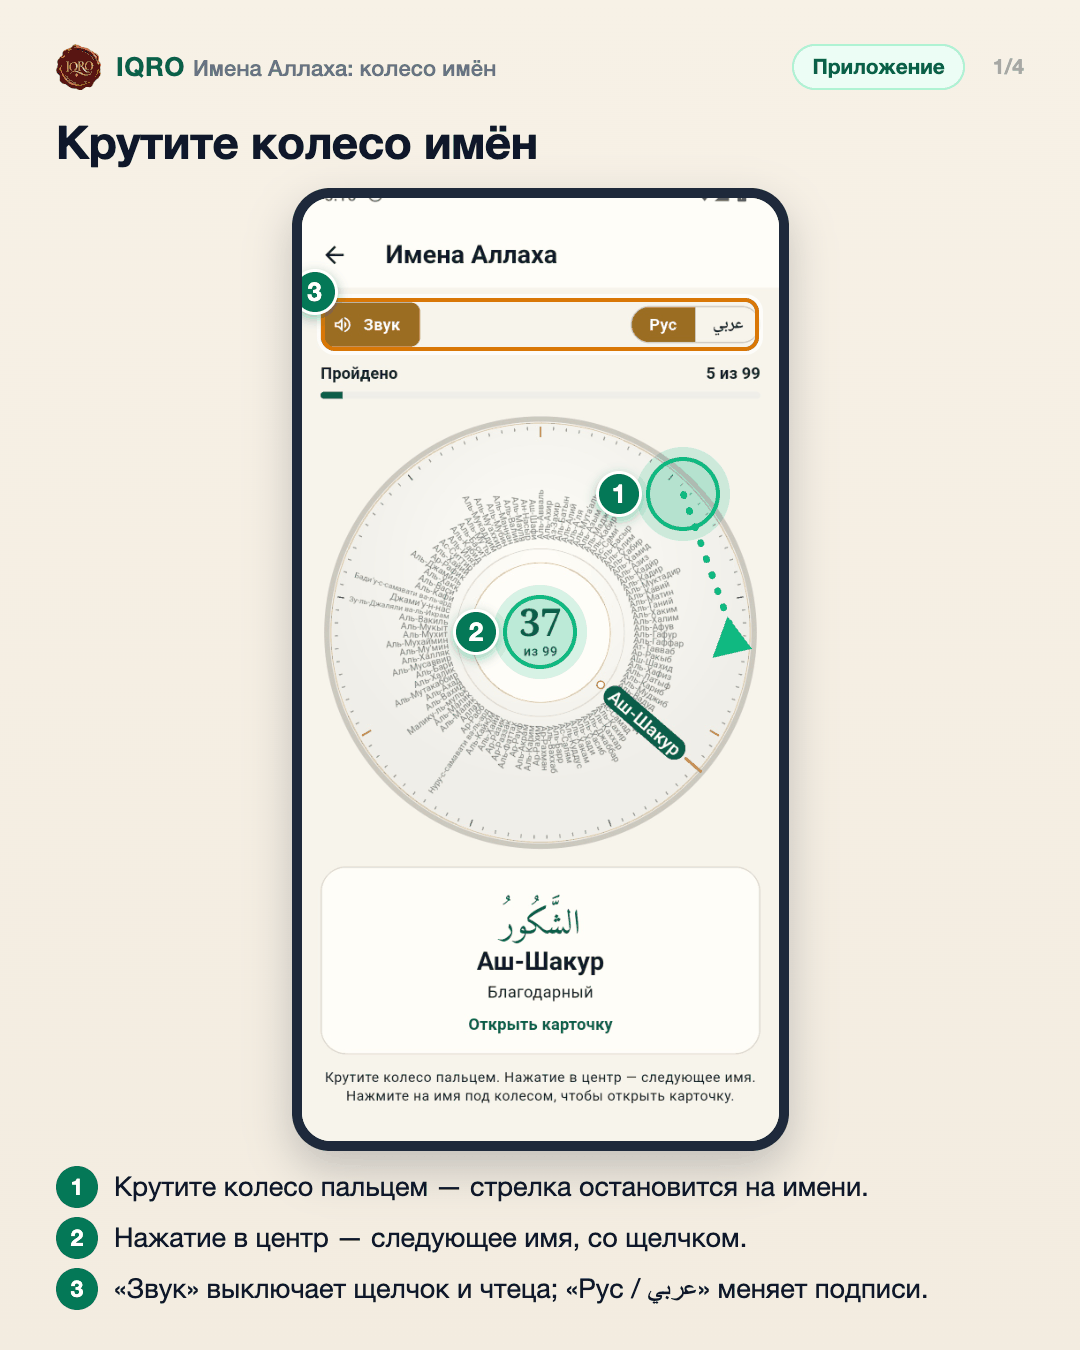
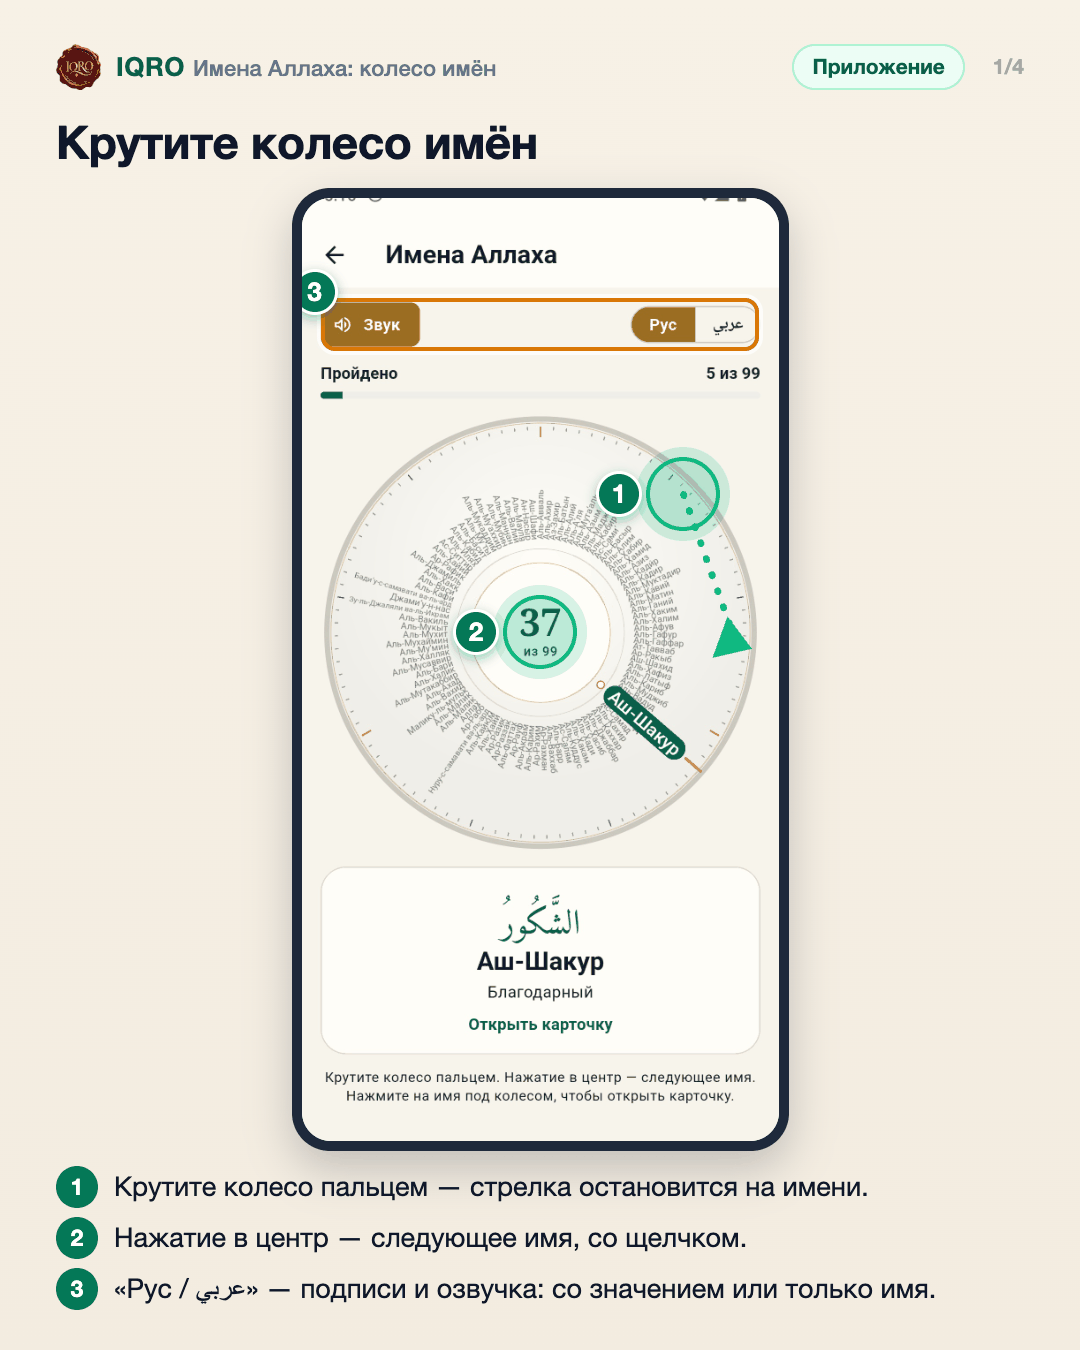
The wheel says a name with its meaning, and its tap can be felt
The labels' switch now picks the voice too: the name with its meaning in the
interface language, or the name alone with Arabic labels; a new name cuts the
previous recording short. On Android the tap is a 45 ms pulse (80 ms on the
tasbih marks): the 22 ms one reached the motor but could not be felt.

Changed region(s): [[0.1222, 0.9333, 0.8556, 0.9644]]

diff --git a/clients/iqro_mobile/android/app/src/main/kotlin/forum/iqro/app/MainActivity.kt b/clients/iqro_mobile/android/app/src/main/kotlin/forum/iqro/app/MainActivity.kt
@@ -21,6 +21,7 @@ import io.flutter.plugin.common.MethodChannel
 
 class MainActivity : AudioServiceActivity() {
     private var lastPagePulse = 0L
+    private var nextPulseAt = 0L
     private var qiblaCompass: QiblaCompassStreamHandler? = null
     private var appUpdates: AppUpdateHandler? = null
 
@@ -49,14 +50,14 @@ class MainActivity : AudioServiceActivity() {
         refreshNotificationIcons()
         MethodChannel(flutterEngine.dartExecutor.binaryMessenger, "forum.iqro.app/reader_haptics")
             .setMethodCallHandler { call, result ->
-                if (call.method != "pageTick") {
-                    result.notImplemented()
-                } else {
-                    try {
-                        result.success(pageTick())
-                    } catch (_: SecurityException) {
-                        result.success("unavailable")
+                try {
+                    when (call.method) {
+                        "pageTick" -> result.success(pageTick())
+                        "pulse" -> result.success(pulse(call.argument<Int>("ms") ?: 45))
+                        else -> result.notImplemented()
                     }
+                } catch (_: SecurityException) {
+                    result.success("unavailable")
                 }
             }
         MethodChannel(flutterEngine.dartExecutor.binaryMessenger, "forum.iqro.app/notification_settings")
@@ -140,6 +141,38 @@ class MainActivity : AudioServiceActivity() {
                 // Notification permission may have been revoked in Settings.
             }
         }
+    }
+
+    /**
+     * A pulse long enough to feel on a phone with a plain rotating motor: the
+     * 22 ms of [pageTick] end before such a motor has spun up. Without amplitude
+     * control the length is the only strength there is. Honours the phone's
+     * touch-vibration switch like any touch feedback.
+     */
+    @Suppress("DEPRECATION")
+    private fun pulse(requestedMs: Int): String {
+        if (Settings.System.getInt(contentResolver, Settings.System.HAPTIC_FEEDBACK_ENABLED, 1) == 0) {
+            return "disabled"
+        }
+        val motor = getSystemService(Context.VIBRATOR_SERVICE) as? Vibrator
+            ?: return "unavailable"
+        if (!motor.hasVibrator()) return "unavailable"
+        val ms = requestedMs.coerceIn(10, 150).toLong()
+        val now = SystemClock.uptimeMillis()
+        // Pulses must not run into one buzz while a wheel spins fast.
+        if (now < nextPulseAt) return "throttled"
+        nextPulseAt = now + ms + 45
+        val attributes = AudioAttributes.Builder()
+            .setUsage(AudioAttributes.USAGE_ASSISTANCE_SONIFICATION)
+            .setContentType(AudioAttributes.CONTENT_TYPE_SONIFICATION)
+            .build()
+        if (Build.VERSION.SDK_INT >= Build.VERSION_CODES.O) {
+            val amplitude = if (motor.hasAmplitudeControl()) 255 else VibrationEffect.DEFAULT_AMPLITUDE
+            motor.vibrate(VibrationEffect.createOneShot(ms, amplitude), attributes)
+        } else {
+            motor.vibrate(ms, attributes)
+        }
+        return "played"
     }
 
     @Suppress("DEPRECATION")

diff --git a/clients/iqro_mobile/test/features/names_screen_test.dart b/clients/iqro_mobile/test/features/names_screen_test.dart
@@ -32,8 +32,9 @@ void main() {
       expect(_readout('Ар-Рахим'), findsOneWidget);
       expect(find.byKey(const ValueKey('names-card')), findsNothing);
       expect(harness.click.count, 1);
-      // The needle stopped on the name: it is seen, and the reciter says it.
-      expect(harness.voice.played, <String>['ar-rahim@ar']);
+      // The needle stopped on the name: it is seen and said, with its meaning
+      // in the interface language.
+      expect(harness.voice.played, <String>['ar-rahim@ru']);
       expect(_seen(tester), '1 из 4');
       expect(harness.store.progress.lessons['ar-rahim']!.completed, isFalse);
 
@@ -71,7 +72,7 @@ void main() {
     await tester.pumpAndSettle();
 
     expect(_readout('Ар-Рахим'), findsOneWidget);
-    expect(harness.voice.played, <String>['ar-rahim@ar']);
+    expect(harness.voice.played, <String>['ar-rahim@ru']);
     expect(tester.takeException(), isNull);
   });
 
@@ -170,7 +171,7 @@ void main() {
   testWidgets('labels switch to Arabic; the Arabic interface has one script', (
     tester,
   ) async {
-    await _pump(tester);
+    final harness = await _pump(tester);
     expect(find.byKey(const ValueKey('names-labels')), findsOneWidget);
     await tester.tap(find.text('عربي'));
     await tester.pumpAndSettle();
@@ -179,14 +180,23 @@ void main() {
     await tester.tapAt(tester.getCenter(_dial));
     await tester.pumpAndSettle();
     expect(_readout('Ар-Рахим'), findsOneWidget);
+    // The switch picks the voice too: with Arabic labels the name alone.
+    expect(harness.voice.played, <String>['ar-rahim@ar']);
     expect(tester.takeException(), isNull);
 
     final json = namesFixture();
     for (final name in json['names']! as List) {
       (name as Map)['transliteration'] = '';
     }
-    await _pump(tester, locale: 'ar', document: NamesDocument.fromJson(json));
+    final arabic = await _pump(
+      tester,
+      locale: 'ar',
+      document: NamesDocument.fromJson(json),
+    );
     expect(find.byKey(const ValueKey('names-labels')), findsNothing);
+    await tester.tapAt(tester.getCenter(_dial));
+    await tester.pumpAndSettle();
+    expect(arabic.voice.played, <String>['ar-rahim@ar']);
     expect(find.text('Ар-Рахман'), findsNothing);
     expect(tester.takeException(), isNull);
   });

diff --git a/services/web/components/names/NamesWheel.tsx b/services/web/components/names/NamesWheel.tsx
@@ -17,6 +17,7 @@ import {
   writeNamesProgress,
   type NamesDocument,
 } from "@/lib/names";
+import { NAME_ONLY } from "@/lib/names-audio";
 import { useAccountProgressSync } from "@/lib/use-account-progress-sync";
 import { useCourseProgress } from "@/lib/use-course-progress";
 import { useReducedMotion } from "@/lib/use-reduced-motion";
@@ -84,9 +85,9 @@ export function NamesWheel({ document: list }: { document: NamesDocument }) {
     lastTick: 0,
     audio: null as AudioContext | null,
   });
-  const live = useRef({ arabicLabels, soundOn, reducedMotion, names, version: list.collection.version, voice });
+  const live = useRef({ arabicLabels, soundOn, reducedMotion, names, version: list.collection.version, voice, locale });
   useEffect(() => {
-    live.current = { arabicLabels, soundOn, reducedMotion, names, version: list.collection.version, voice };
+    live.current = { arabicLabels, soundOn, reducedMotion, names, version: list.collection.version, voice, locale };
   });
 
   // Drawing -----------------------------------------------------------------
@@ -303,7 +304,9 @@ export function NamesWheel({ document: list }: { document: NamesDocument }) {
     const before = readNamesProgress();
     const after = markNameSeen(before, name.slug, version);
     if (after !== before) writeNamesProgress(after);
-    if (sound) void reciter.play(name);
+    // The labels' switch also picks the voice: the name with its meaning in the site's language,
+    // or the name alone with Arabic labels.
+    if (sound) void reciter.play(name, live.current.arabicLabels ? NAME_ONLY : live.current.locale);
   }, []);
 
   // Motion ------------------------------------------------------------------

diff --git a/clients/iqro_mobile/lib/features/names/names_sound.dart b/clients/iqro_mobile/lib/features/names/names_sound.dart
@@ -70,12 +70,10 @@ class AssetNamesClick implements NamesClick {
   }
 }
 
-/// A light tap under the finger for every name that passes the needle: the
-/// same short pulse as a Mushaf page turn. On Android it goes straight to the
-/// motor, because the system's own tick is too weak to feel on some phones
-/// (MIUI); it still respects the phone's «touch vibration» setting.
-void namesHaptic() {
-  unawaited(ReaderHaptics.pageChanged(enabled: true));
+/// A tap under the finger for every name that passes the needle; [mark] is a
+/// name on a tasbih mark (every 11th), which is felt a little longer.
+void namesHaptic({bool mark = false}) {
+  unawaited(ReaderHaptics.pulse(strong: mark));
 }
 
 /// Plays one bundled recording of a name.
@@ -92,17 +90,25 @@ abstract interface class NamesClipPlayer {
 /// and must start at once.
 class AssetNamesClipPlayer implements NamesClipPlayer {
   AudioPlayer? _player;
+  var _request = 0;
 
   @override
   Future<void> play(String asset) async {
     final player = _player ??= AudioPlayer(handleAudioSessionActivation: false);
+    // A newer name takes over at any step: recordings never queue up.
+    final request = ++_request;
     await player.stop();
+    if (request != _request) return;
     await player.setAsset(asset);
+    if (request != _request) return;
     await player.play();
   }
 
   @override
-  Future<void> stop() async => _player?.stop();
+  Future<void> stop() async {
+    _request += 1;
+    await _player?.stop();
+  }
 
   @override
   Future<void> dispose() async => _player?.dispose();

diff --git a/clients/iqro_mobile/lib/features/names/names_screen.dart b/clients/iqro_mobile/lib/features/names/names_screen.dart
@@ -104,10 +104,19 @@ class _WheelState extends ConsumerState<_Wheel> {
         .sync(AccountProgressSync.names, _document.slug),
   );
 
+  /// The Arabic interface has one way to write and to say a name.
+  bool get _arabicLabels =>
+      _arabicChosen || Localizations.localeOf(context).languageCode == 'ar';
+
+  String get _voiceLanguage => _arabicLabels
+      ? NamesVoice.nameOnly
+      : Localizations.localeOf(context).languageCode;
+
   String get _album => 'IQRO · ${context.l10n.namesOfAllah}';
 
-  void _tick() {
-    namesHaptic();
+  void _tick(int index) {
+    // The tasbih marks, every 11 names, are felt a little longer.
+    namesHaptic(mark: index % 11 == 0);
     if (!_soundOn) return;
     // The players cannot restart faster than this; a fast spin skips clicks.
     final now = DateTime.now();
@@ -122,11 +131,12 @@ class _WheelState extends ConsumerState<_Wheel> {
     final name = _document.names[index];
     // The name is not said over the Quran that plays.
     if (_soundOn && !ref.read(audioControllerProvider).playing) {
-      // The wheel says the name alone; its meaning is on the card.
+      // The labels' switch also picks the voice: the name with its meaning
+      // in the interface language, or the name alone with Arabic labels.
       unawaited(
         ref
             .read(namesVoiceProvider)
-            .play(name, album: _album, language: NamesVoice.nameOnly),
+            .play(name, album: _album, language: _voiceLanguage),
       );
     }
     final CourseProgress progress;

diff --git a/clients/iqro_mobile/lib/core/platform/reader_haptics.dart b/clients/iqro_mobile/lib/core/platform/reader_haptics.dart
@@ -5,6 +5,37 @@ import 'package:flutter/services.dart';
 class ReaderHaptics {
   static const channel = MethodChannel('forum.iqro.app/reader_haptics');
 
+  /// A pulse that can be felt on a phone with a plain rotating motor, where
+  /// the system's own ticks and the 22 ms of [pageChanged] are too short:
+  /// [strong] is for a mark that stands out. On Android the length is sent to
+  /// the motor (the phone's touch-vibration switch still applies); elsewhere
+  /// the system's medium and heavy impacts are used.
+  static Future<void> pulse({bool strong = false}) async {
+    if (!kIsWeb && defaultTargetPlatform == TargetPlatform.android) {
+      try {
+        await channel.invokeMethod<String>('pulse', <String, Object?>{
+          'ms': strong ? strongPulseMs : pulseMs,
+        });
+        return;
+      } on MissingPluginException {
+        // Older native shells and test hosts have no custom channel.
+      } on PlatformException {
+        // A denied or unavailable motor must not interrupt the screen.
+      }
+    }
+    try {
+      await (strong
+          ? HapticFeedback.heavyImpact()
+          : HapticFeedback.mediumImpact());
+    } on PlatformException {
+      // Haptics are best effort.
+    }
+  }
+
+  /// The lengths of [pulse] on Android, in milliseconds.
+  static const pulseMs = 45;
+  static const strongPulseMs = 80;
+
   static Future<void> pageChanged({required bool enabled}) async {
     if (!enabled) return;
     if (!kIsWeb && defaultTargetPlatform == TargetPlatform.android) {

diff --git a/services/web/e2e/names.spec.ts b/services/web/e2e/names.spec.ts
@@ -28,8 +28,11 @@ test("the wheel turns by keys and by a tap on its centre; the name under it open
   await expect(page.getByTestId("names-seen")).toHaveText("0 из 4");
 
   await dial.focus();
+  // The needle stops on a name and it is said at once, with its meaning in the site's language.
+  const said = page.waitForRequest((request) => request.url().endsWith("/names-audio/ru/ar-rahim.mp3"));
   await page.keyboard.press("ArrowRight");
   await expect(readout).toContainText("Ар-Рахим");
+  await said;
   await expect(dial).toHaveAttribute("aria-valuenow", "2");
   await expect(page.getByTestId("names-seen")).toHaveText("1 из 4");
 
@@ -117,8 +120,11 @@ test("labels switch between the interface language and Arabic; the Arabic site h
   await expect(page.getByTestId("names-labels-locale")).toHaveAttribute("aria-pressed", "false");
   // With Arabic labels the wheel runs the other way, and the keys still go to the next name.
   await page.getByTestId("names-dial").focus();
+  // The switch picks the voice too: with Arabic labels the name alone.
+  const nameOnly = page.waitForRequest((request) => request.url().endsWith("/names-audio/ar/ar-rahim.mp3"));
   await page.keyboard.press("ArrowRight");
   await expect(page.getByTestId("names-readout")).toContainText("Ар-Рахим");
+  await nameOnly;
 
   await openWheel(page, "ar");
   await expect(page.getByTestId("names-labels-arabic")).toHaveCount(0);

diff --git a/clients/iqro_mobile/lib/features/names/names_wheel.dart b/clients/iqro_mobile/lib/features/names/names_wheel.dart
@@ -106,8 +106,8 @@ class NamesWheel extends StatefulWidget {
   /// The needle stopped on a name.
   final ValueChanged<int> onSettled;
 
-  /// A name passed the needle: the click and the haptic.
-  final VoidCallback onTick;
+  /// The name with this index passed the needle: the click and the haptic.
+  final ValueChanged<int> onTick;
   final String semanticLabel;
   final String nextLabel;
 
@@ -174,7 +174,7 @@ class NamesWheelState extends State<NamesWheel>
     final index = wheelIndex(_position, _count);
     if (index == _index) return;
     _index = index;
-    widget.onTick();
+    widget.onTick(index);
     widget.onChanged(index);
   }
 

diff --git a/services/web/lib/messages/ar.ts b/services/web/lib/messages/ar.ts
@@ -76,7 +76,7 @@ const ar: Messages = {
   "names.soonTitle": "القسم قيد الإعداد",
   "names.soonText": "تُراجَع قائمة الأسماء على الكتب، وستظهر هنا قريبًا.",
   "names.sound": "الصوت",
-  "names.labelsGroup": "الكتابة على العجلة",
+  "names.labelsGroup": "الكتابة والصوت",
   "names.labelsLocale": "عربي",
   "names.seen": "تمّ المرور",
   "names.seenCount": "{seen} من {total}",

diff --git a/services/web/lib/messages/ru.ts b/services/web/lib/messages/ru.ts
@@ -79,7 +79,7 @@ const ru = {
   "names.soonTitle": "Раздел готовится",
   "names.soonText": "Список имён сверяется с книгами. Скоро он появится здесь.",
   "names.sound": "Звук",
-  "names.labelsGroup": "Подписи на колесе",
+  "names.labelsGroup": "Подписи и озвучка",
   "names.labelsLocale": "Рус",
   "names.seen": "Пройдено",
   "names.seenCount": "{seen} из {total}",

diff --git a/services/web/lib/messages/en.ts b/services/web/lib/messages/en.ts
@@ -76,7 +76,7 @@ const en: Messages = {
   "names.soonTitle": "This section is being prepared",
   "names.soonText": "The list of names is being checked against the books. It will appear here soon.",
   "names.sound": "Sound",
-  "names.labelsGroup": "Labels on the wheel",
+  "names.labelsGroup": "Labels and voice",
   "names.labelsLocale": "Eng",
   "names.seen": "Seen",
   "names.seenCount": "{seen} of {total}",

diff --git a/services/web/lib/messages/tr.ts b/services/web/lib/messages/tr.ts
@@ -76,7 +76,7 @@ const tr: Messages = {
   "names.soonTitle": "Bölüm hazırlanıyor",
   "names.soonText": "İsimlerin listesi kitaplarla karşılaştırılıyor. Yakında burada olacak.",
   "names.sound": "Ses",
-  "names.labelsGroup": "Çarktaki yazılar",
+  "names.labelsGroup": "Yazılar ve ses",
   "names.labelsLocale": "Tür",
   "names.seen": "Geçildi",
   "names.seenCount": "{seen} / {total}",
